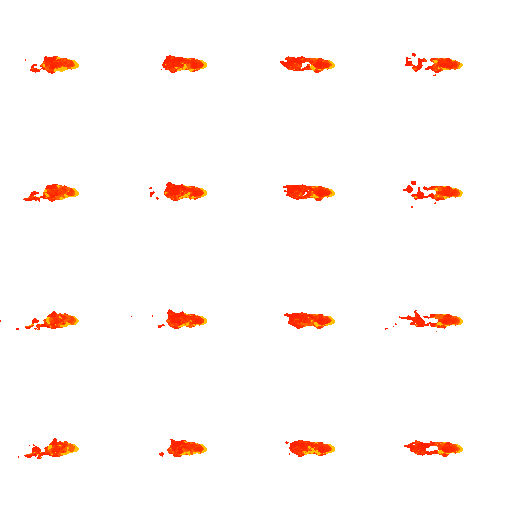
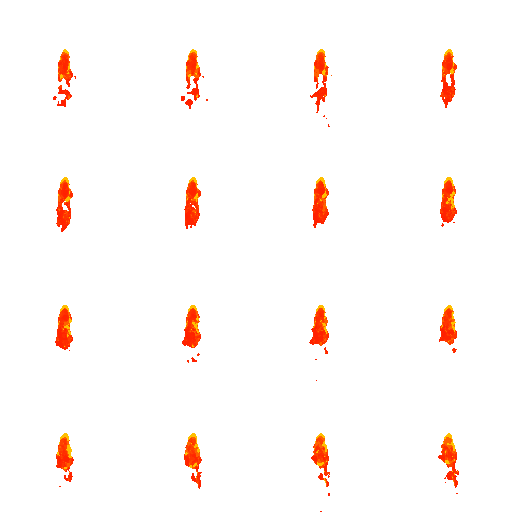
update enemy projectile image

diff --git a/dist/main.js b/dist/main.js
@@ -66,7 +66,7 @@ eval("__webpack_require__.r(__webpack_exports__);\nfunction _defineProperty(obj,
   \***********************************/
 /***/ (function(__unused_webpack_module, __webpack_exports__, __webpack_require__) {
 
[2 lines of base64/hex data omitted]
 
 /***/ }),
 

diff --git a/src/scripts/projectile.js b/src/scripts/projectile.js
@@ -8,23 +8,26 @@ class Projectile extends GameObject {
     constructor(options) {
         options.radius = Projectile.RADIUS;
         super(options);
-        this.spriteSheet = new Image();
-        this.spriteSheet.src = "assets/flame.png";
+        this.userProjectileSheet = new Image();
+        this.userProjectileSheet.src = "assets/flame.png";
+        this.enemyProjectileSheet = new Image();
+        this.enemyProjectileSheet.src = "assets/power.png";
         this.currentFrame = 0;
-        this.frameWidth = 128; // Width of each frame in pixels
-        this.frameHeight = 128; // Height of each frame in pixels
+        this.eachWidth = 128; // Width of each frame in pixels
+        this.eachHeight = 128; // Height of each frame in pixels
         this.numFrames = 4; // Total number of frames in the spritesheet
     }
 
     draw(ctx) {
-        // Calculate the x and y coordinates of the current frame in the spritesheet
-        const sx = this.currentFrame * this.frameWidth;
+        const sx = this.currentFrame * this.eachWidth;
         const sy = 0;
 
-        // Draw the current frame of the projectile on the canvas
-        ctx.drawImage(this.spriteSheet, sx, sy, this.frameWidth, this.frameHeight, this.pos[0], this.pos[1], this.frameWidth, this.frameHeight);
-
-        // Increment the current frame index
+        if (this.vel[1] < 0){
+            ctx.drawImage(this.userProjectileSheet, sx, sy, this.eachWidth, this.eachHeight, this.pos[0], this.pos[1], 60, 60);    
+        } else {
+            
+            ctx.drawImage(this.enemyProjectileSheet, sx, sy, this.eachWidth, this.eachHeight, this.pos[0], this.pos[1], 60, 60);
+        }
         this.currentFrame = (this.currentFrame + 1) % this.numFrames;
     }
 }
